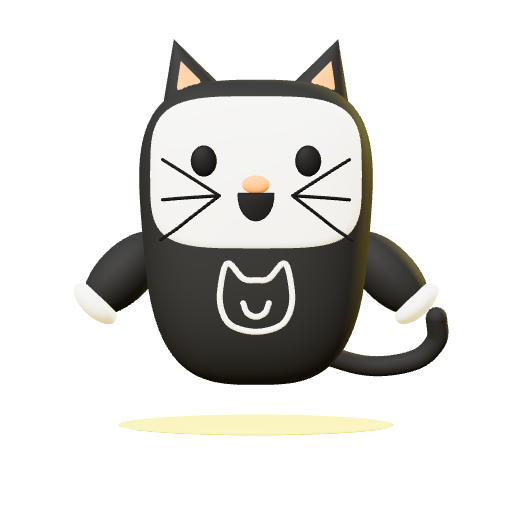
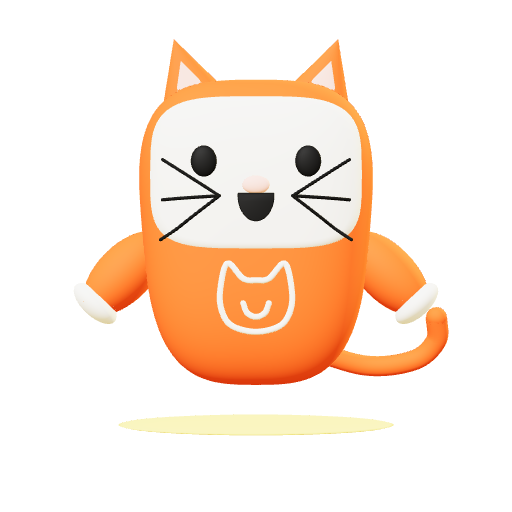
feat: make Peaches an orange cat
Recolor the shell, ears and tail orange, soften the nose and inner
ears to pink for contrast, and re-render the matching loading still.

Changed region(s): [[0.1562, 0.2188, 0.875, 0.75], [0.3125, 0.0625, 0.6875, 0.2188], [0.4688, 0.3438, 0.5312, 0.375]]

diff --git a/src/peachesAssets.ts b/src/peachesAssets.ts
@@ -23,7 +23,9 @@ export function preloadPeachesModels() {
   return assets
 }
 
-const peach = new THREE.MeshStandardMaterial({ color: 0xff7f50, roughness: 0.7, metalness: 0 })
+const peach = new THREE.MeshStandardMaterial({ color: 0xffb3a7, roughness: 0.7, metalness: 0 })
+// Peaches' orange fur replaces the robot's dark shell.
+const orange = 0xd4480a
 // Peaches' chest emblem: a cat face outline and smile, in emblem units (1 = emblem width).
 const emblemOutline = [
   [-0.36, 0.48], [-0.16, 0.29], [0, 0.27], [0.16, 0.29], [0.36, 0.48], [0.45, 0.12], [0.42, -0.14],
@@ -44,7 +46,12 @@ function addCatFeatures(model: THREE.Object3D) {
     const mark = model.getObjectByName(name)
     if (mark) mark.visible = false
   }
-  const charcoal = body.material as THREE.Material
+  const shell = body.material as THREE.MeshStandardMaterial
+  const fur = shell.clone()
+  fur.color.setHex(orange)
+  model.traverse((part) => {
+    if (part instanceof THREE.Mesh && part.material === shell) part.material = fur
+  })
   const white = face.material as THREE.Material
   const ink = mouth.material as THREE.Material
   const cat = new THREE.Group()
@@ -74,7 +81,7 @@ function addCatFeatures(model: THREE.Object3D) {
   }
 
   for (const side of [-1, 1]) {
-    const ear = new THREE.Mesh(new THREE.ConeGeometry(0.25, 0.48, 32), charcoal)
+    const ear = new THREE.Mesh(new THREE.ConeGeometry(0.25, 0.48, 32), fur)
     ear.scale.z = 0.5
     ear.position.set(side * 0.42, 2.18, -0.02)
     ear.rotation.z = -side * 0.32
@@ -99,7 +106,7 @@ function addCatFeatures(model: THREE.Object3D) {
   tube(emblem(emblemSmile), 0.017, white)
 
   const tail = [[0.3, 0.52, -0.32], [0.7, 0.4, -0.36], [1.0, 0.44, -0.3], [1.13, 0.57, -0.24], [1.12, 0.72, -0.18]]
-  tube(tail.map(([x, y, z]) => new THREE.Vector3(x, y, z)), 0.065, charcoal)
+  tube(tail.map(([x, y, z]) => new THREE.Vector3(x, y, z)), 0.065, fur)
 }
 
 // Shared by the live avatar and its matching still render.

diff --git a/AGENTS.md b/AGENTS.md
@@ -4,7 +4,7 @@ React + Vite + Tailwind CSS project running inside Figma Make.
 
 ## Peaches mascot identity
 
-- Peaches is Unfold's floating cat mascot: the dark body, white face, pointed ears, peach nose, whiskers, tail, and white cat-face chest emblem shown by `src/PeachesAvatar.tsx` and the approved Peaches assets.
+- Peaches is Unfold's floating orange cat mascot: the orange body, white face, pointed ears, pink nose, whiskers, tail, and white cat-face chest emblem shown by `src/PeachesAvatar.tsx` and the approved Peaches assets.
 - Use this same mascot everywhere Peaches appears. Nothing replaces it, and no other character, SVG face, sparkle, glyph, emoji, or generic icon may be called Peaches.
 - Reuse `src/PeachesAvatar.tsx` for the animated mascot and `src/PeachesPoster.tsx` / `public/images/peaches-loading.png` for its matching still or loading fallback. Reuse the existing models, expressions, and behavior in `src/peachesAssets.ts`, `src/peachesBehavior.ts`, and `src/peachesMotion.ts`.
 - A lightweight view must still show the actual Peaches. Use the approved still when animation is unavailable; do not substitute another mascot.
